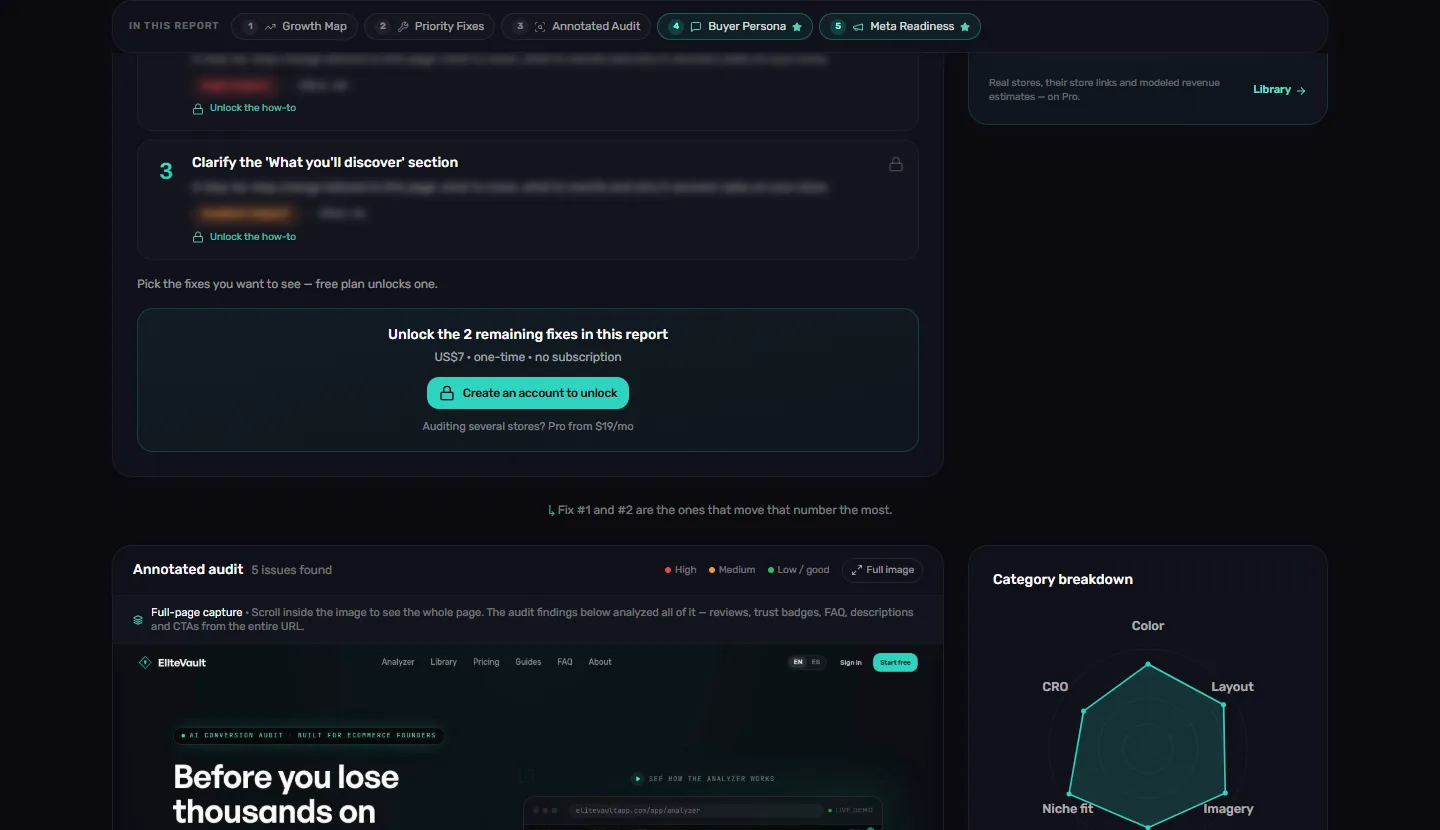
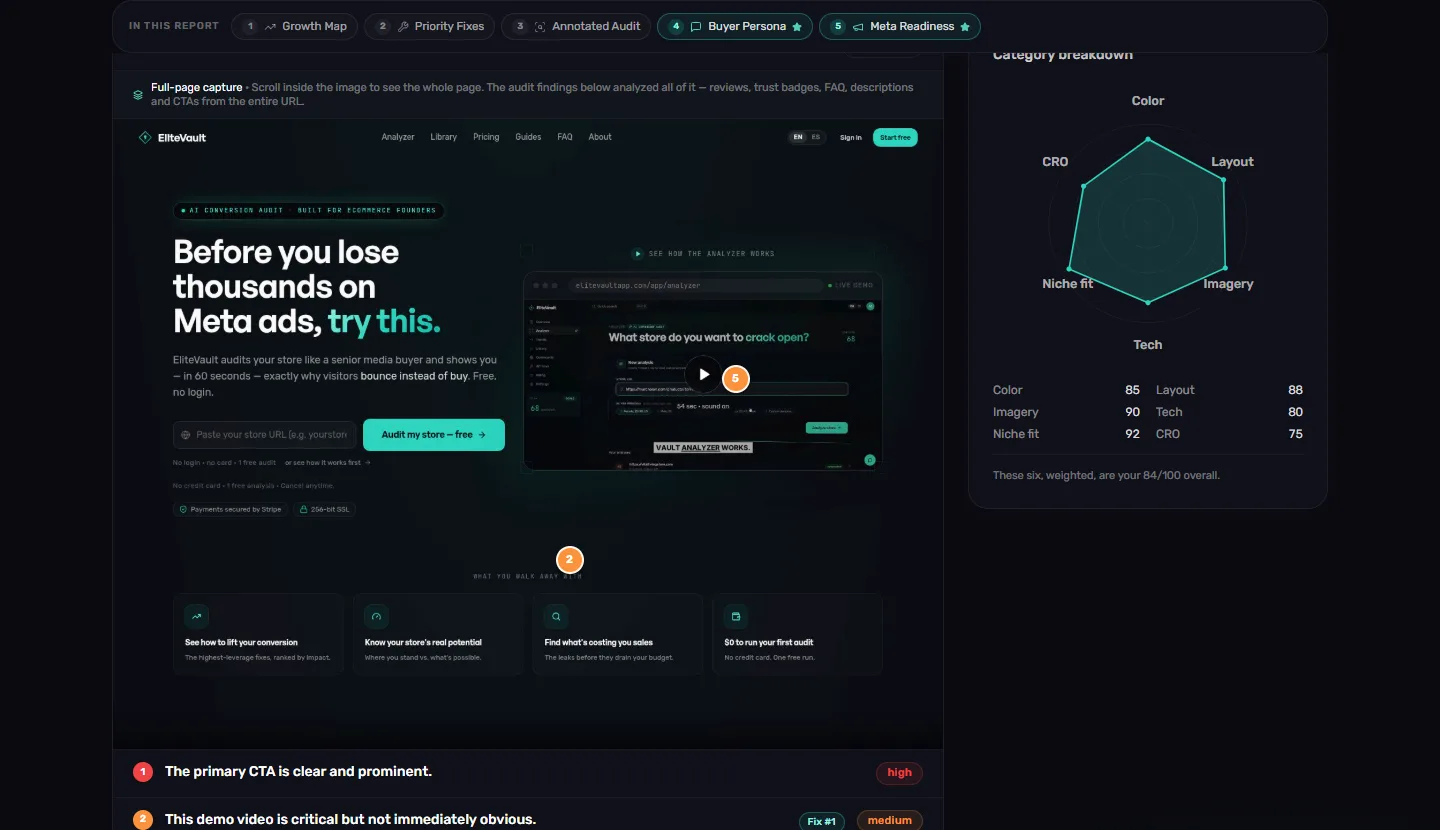
fix(landing): exclude own-store audits from the counter; stream the In use block; recapture 2 screenshots
From the independent verification: audits of the company's own stores (and anonymous
runs on them) no longer inflate 'Audits completed' (253 -> ~219, shows 200+); internal
accounts are matched in SQL instead of reading every profile; block 03 streams in
Suspense so its queries never delay the first byte; analyzer-3 and library-2 now show
what their captions say; ES caption wording.

diff --git a/components/marketing/toolkit.tsx b/components/marketing/toolkit.tsx
@@ -1,3 +1,4 @@
+import { Suspense } from "react";
 import { getT } from "@/lib/i18n/server";
 import { PLANS } from "@/lib/stripe/plans";
 import { getInUseData } from "@/lib/marketing/site-stats";
@@ -56,8 +57,6 @@ const fill = (s: string, vars: Record<string, string | number>) =>
 
 export async function Toolkit() {
   const { t } = await getT();
-  const inUse = await getInUseData();
-
   const pro = PLANS.pro.name;
   const scale = PLANS.scale.name;
   const freeStores = PLANS.free.libraryFullMetricsCap;
@@ -125,8 +124,6 @@ export async function Toolkit() {
     dDays: t("toolkit.dDays"),
   };
 
-  const counterLabel = { audits: "toolkit.cAudits", stores: "toolkit.cStores", niches: "toolkit.cNiches" } as const;
-
   return (
     <section
       id="analyzer"
@@ -168,34 +165,11 @@ export async function Toolkit() {
           </p>
         </TrustReveal>
 
-        {/* 03 — in use (hidden entirely if fewer than 2 counters pass their threshold) */}
-        {inUse.counters.length > 0 && (
-          <TrustReveal className="mt-8 border-t border-white/[0.04] pt-6 md:mt-10 md:pt-8">
-            <p className="text-center font-mono text-[11px] uppercase tracking-[0.2em] text-white/40">
-              {t("toolkit.inUse")}
-            </p>
-            <ul
-              className={`mx-auto mt-4 grid max-w-3xl gap-4 ${
-                inUse.counters.length >= 3 ? "grid-cols-3" : "grid-cols-2"
-              }`}
-            >
-              {inUse.counters.map((c) => (
-                <li key={c.key} className="text-center">
-                  <p className="font-mono text-2xl tabular-nums text-white md:text-4xl">
-                    {c.value.toLocaleString("en-US")}
-                    {c.key === "niches" ? "" : "+"}
-                  </p>
-                  <p className="mt-1 text-xs text-white/50 md:text-sm">{t(counterLabel[c.key])}</p>
-                </li>
-              ))}
-            </ul>
-            {inUse.aiVisits !== null && (
-              <p className="mt-4 text-center text-xs text-white/40">
-                {fill(t("toolkit.aiLine"), { n: inUse.aiVisits.toLocaleString("en-US") })}
-              </p>
-            )}
-          </TrustReveal>
-        )}
+        {/* 03 — in use. Streams in: the counters' queries (cached 6 h, 1.5 s timeout) must never hold up
+            the first byte of the landing. The fallback only reserves the space. */}
+        <Suspense fallback={<div aria-hidden className="mt-8 h-28 md:mt-10 md:h-32" />}>
+          <InUseBlock t={t} />
+        </Suspense>
 
         {/* CTA — a single button */}
         <div className="mt-8 flex justify-center md:mt-10">
@@ -203,5 +177,39 @@ export async function Toolkit() {
         </div>
       </div>
     </section>
+  );
+}
+
+/** Block 03 — "In use" (hidden entirely if fewer than 2 counters pass their threshold). */
+async function InUseBlock({ t }: { t: (path: string) => string }) {
+  const inUse = await getInUseData();
+  if (inUse.counters.length === 0) return null;
+  const counterLabel = { audits: "toolkit.cAudits", stores: "toolkit.cStores", niches: "toolkit.cNiches" } as const;
+  return (
+          <TrustReveal className="mt-8 border-t border-white/[0.04] pt-6 md:mt-10 md:pt-8">
+        <p className="text-center font-mono text-[11px] uppercase tracking-[0.2em] text-white/40">
+          {t("toolkit.inUse")}
+        </p>
+        <ul
+          className={`mx-auto mt-4 grid max-w-3xl gap-4 ${
+            inUse.counters.length >= 3 ? "grid-cols-3" : "grid-cols-2"
+          }`}
+        >
+          {inUse.counters.map((c) => (
+            <li key={c.key} className="text-center">
+              <p className="font-mono text-2xl tabular-nums text-white md:text-4xl">
+                {c.value.toLocaleString("en-US")}
+                {c.key === "niches" ? "" : "+"}
+              </p>
+              <p className="mt-1 text-xs text-white/50 md:text-sm">{t(counterLabel[c.key])}</p>
+            </li>
+          ))}
+        </ul>
+        {inUse.aiVisits !== null && (
+          <p className="mt-4 text-center text-xs text-white/40">
+            {fill(t("toolkit.aiLine"), { n: inUse.aiVisits.toLocaleString("en-US") })}
+          </p>
+        )}
+      </TrustReveal>
   );
 }

diff --git a/lib/marketing/site-stats.ts b/lib/marketing/site-stats.ts
@@ -33,10 +33,19 @@ function internalEmails(): string[] {
 }
 
 /**
- * Completed audits (status 'succeeded'), EXCLUDING audits run by internal
- * accounts (INTERNAL_EMAILS plus *.local test addresses). If INTERNAL_EMAILS is
- * not configured we cannot tell internal from real, so we return null (counter
- * hidden) instead of overstating. Refunded audits are never counted.
+ * Stores that belong to the owner/company: audits of THESE are product tests,
+ * not usage, so they are excluded from the public counter (anonymous runs on
+ * them can't be tied to an internal account, hence the domain rule).
+ */
+const INTERNAL_AUDIT_DOMAINS = ["elitevaultapp.com", "vitallivingstore.com", "vita-lliving.myshopify.com"];
+
+/**
+ * Completed audits (status 'succeeded'), EXCLUDING:
+ *   • audits run by internal accounts (INTERNAL_EMAILS plus *.local test addresses), and
+ *   • audits OF our own stores (INTERNAL_AUDIT_DOMAINS), signed-in or anonymous.
+ * If INTERNAL_EMAILS is not configured we cannot tell internal from real, so we
+ * throw (→ null → counter hidden) instead of overstating. Refunded audits are
+ * never counted.
  */
 const fetchAuditsCompleted = unstable_cache(
   async (): Promise<number> => {
@@ -50,31 +59,23 @@ const fetchAuditsCompleted = unstable_cache(
       .eq("status", "succeeded");
     if (e1 || typeof total !== "number") throw new Error("analyses count failed");
 
-    const { data: profiles, error: e2 } = await svc
-      .from("profiles")
-      .select("id, email")
-      .limit(20000);
+    // Internal accounts: filtered in SQL (no row cap), not by reading every profile.
+    const emailFilter = [...emails.map((e) => `email.eq.${e}`), "email.ilike.*.local"].join(",");
+    const { data: profiles, error: e2 } = await svc.from("profiles").select("id").or(emailFilter);
     if (e2 || !Array.isArray(profiles)) throw new Error("profiles read failed");
-    const internalIds = (profiles as { id: string; email: string | null }[])
-      .filter((p) => {
-        const em = (p.email ?? "").toLowerCase();
-        return emails.includes(em) || em.endsWith(".local");
-      })
-      .map((p) => p.id);
+    const internalIds = (profiles as { id: string }[]).map((r) => r.id);
 
-    let internal = 0;
-    for (let i = 0; i < internalIds.length; i += 100) {
-      const { count, error } = await svc
-        .from("analyses")
-        .select("id", { count: "exact", head: true })
-        .eq("status", "succeeded")
-        .in("user_id", internalIds.slice(i, i + 100));
-      if (error || typeof count !== "number") throw new Error("internal count failed");
-      internal += count;
-    }
+    const clauses = INTERNAL_AUDIT_DOMAINS.map((d) => `url.ilike.*${d}*`);
+    if (internalIds.length > 0) clauses.push(`user_id.in.(${internalIds.join(",")})`);
+    const { count: internal, error: e3 } = await svc
+      .from("analyses")
+      .select("id", { count: "exact", head: true })
+      .eq("status", "succeeded")
+      .or(clauses.join(","));
+    if (e3 || typeof internal !== "number") throw new Error("internal count failed");
     return Math.max(0, total - internal);
   },
-  ["landing-audits-completed"],
+  ["landing-audits-completed-v2"],
   { revalidate: REVALIDATE_SECONDS },
 );
 

diff --git a/lib/i18n/messages.ts b/lib/i18n/messages.ts
@@ -1577,7 +1577,7 @@ const es: Dict = {
     actSimulator: "Ver demo",
     simNote: "Meta Ads Optimizer en {scale}",
     aCap1: "Growth Map: dónde está tu tienda y qué la frena.",
-    aCap2: "Fixes ordenados por impacto, con esfuerzo e impacto.",
+    aCap2: "Fixes ordenados por palanca, con su esfuerzo e impacto.",
     aCap3: "Tu propia página, anotada: cada problema marcado sobre ella.",
     lCap1: "Una biblioteca curada: las ganadoras se revisan antes de publicarse.",
     lCap2: "Explora las ganadoras por nicho.",
